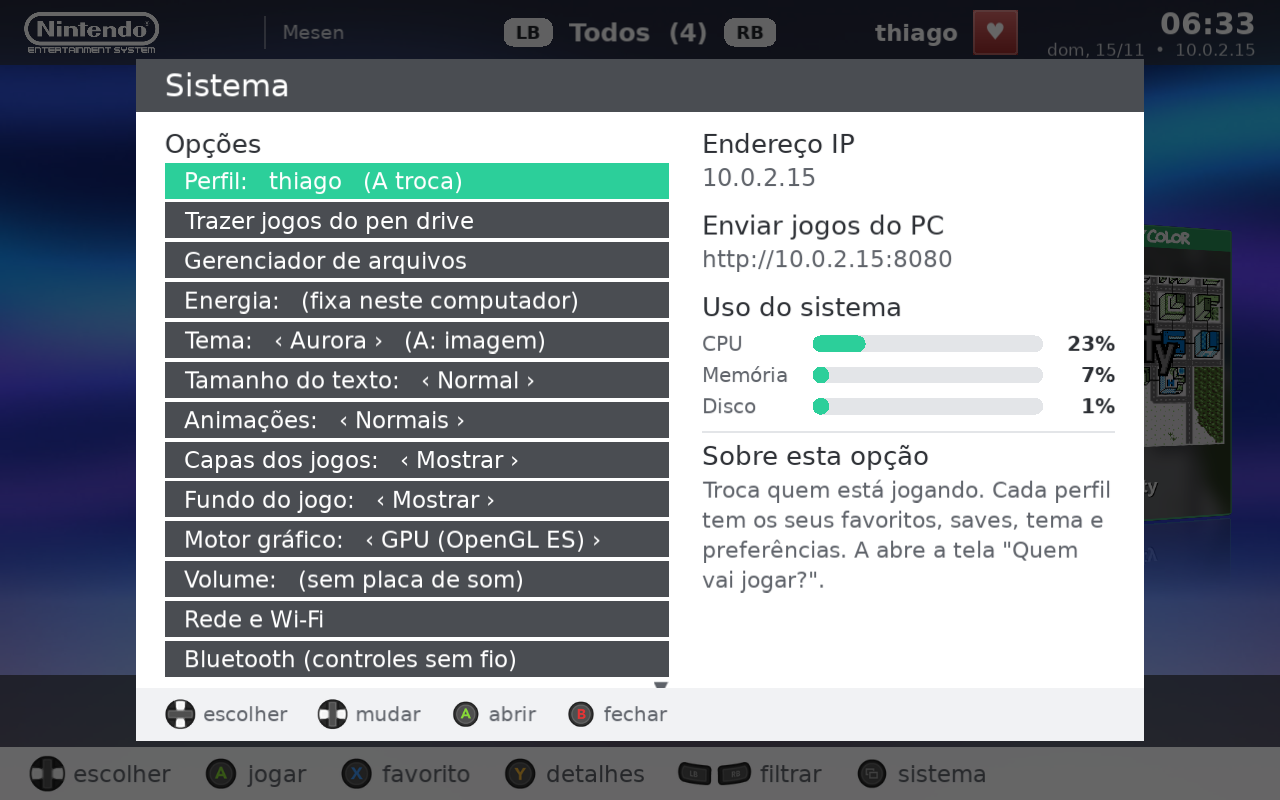
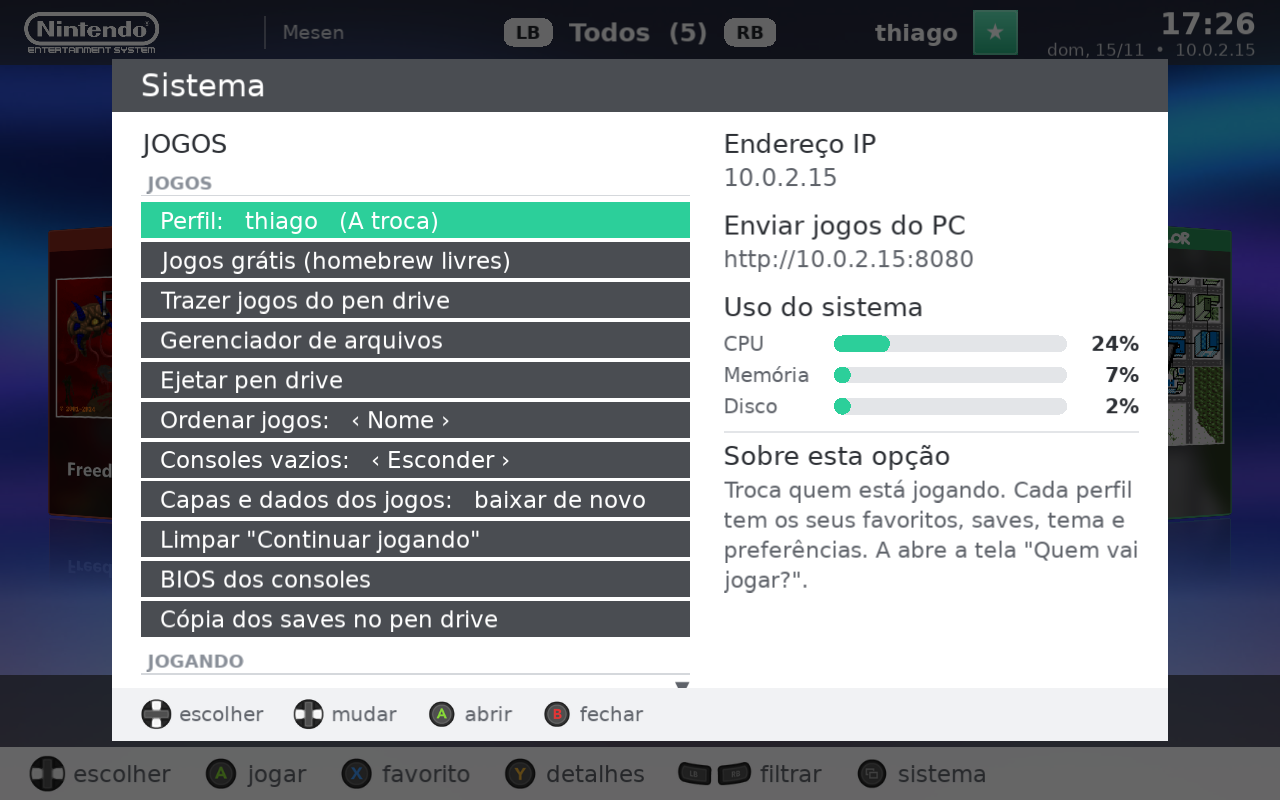
docs: README em 6 blocos (badges, capturas, hardware, pastas, compilar, licenca) e CHANGELOG
- versao v0.19.0-beta (SemVer), arquitetura, base e licenca em badges
- capturas novas: menu de boot, logo, carrossel com os jogos gratis, painel em secoes, gerenciador,
  Freedoom e protecao de tela
- matriz de hardware, drivers incluidos, estrutura de pastas, pacotes do host e comandos de compilacao
- CHANGELOG no padrao Keep a Changelog, com as versoes publicadas ate aqui

diff --git a/README.md b/README.md
@@ -2,93 +2,113 @@
 
 <p align="center"><img src="docs/logo.png" width="620" alt="ScrapCade OS"></p>
 
-<p align="center"><b>Jogos em qualquer computador.</b><br>
-Sistema próprio, baseado em Linux, para <b>emulação de jogos</b> e para dar uma <b>segunda vida a computadores que iriam para o lixo</b>.</p>
+<p align="center">
+  <img src="https://img.shields.io/badge/vers%C3%A3o-v0.19.0--beta-orange" alt="versão v0.19.0-beta">
+  <img src="https://img.shields.io/badge/arquitetura-x86__64%20%7C%20i686%20(em%20breve)-informational" alt="arquitetura x86_64, i686 em breve">
+  <img src="https://img.shields.io/badge/base-Linux%206.12%20%2B%20Buildroot%202026.02-lightgrey" alt="base Linux 6.12 e Buildroot 2026.02">
+  <img src="https://img.shields.io/badge/licen%C3%A7a-GPLv3-blue" alt="licença GPLv3">
+</p>
+
+**Sistema operacional para emulação de jogos que dá uma segunda vida a computadores que iriam para o lixo.** É um Linux próprio (kernel 6.12, montado com o Buildroot 2026.02) que liga direto num menu de jogos, o **ScrapCade**, feito em C++ e SDL2. Roda em PCs e notebooks de 64 bits, por BIOS antigo ou UEFI, a partir de um pen drive ou instalado no HD. Uma versão para PCs de 32 bits está a caminho.
 
 <p align="center"><a href="https://github.com/thiagotechmaker/scrapcade.os/releases/latest"><b>⬇ Baixar a versão mais nova (.iso, PC 64 bits)</b></a></p>
 
-## Baixar e instalar
+## Sobre e capturas
 
-1. **Baixe** o `scrapcade-os-<versão>-pc-64bits.iso` em [Releases](https://github.com/thiagotechmaker/scrapcade.os/releases/latest). É um arquivo só, que liga por BIOS antigo e por UEFI.
-2. **Grave** num pen drive de 4 GB ou mais com o [Rufus](https://rufus.ie) (modo ISO ou DD, tanto faz) ou o [balenaEtcher](https://etcher.balena.io).
-3. **Ligue o PC pelo pen drive** (tecla do menu de boot: F12, F9, F8 ou Esc). No primeiro boot o ScrapCade OS arruma o pen drive sozinho (sistema + partição SCRAP-DADOS para os jogos), pede a senha do administrador e abre a criação do seu perfil.
-4. **Coloque jogos** (veja [Colocar jogos](#colocar-jogos)).
-5. **Quer ligar sem o pen drive?** O ScrapCade OS pergunta uma vez se quer instalar no HD/SSD (também em *Sistema > Instalar no disco do computador*).
+**Instalar:**
 
-As versões novas chegam sozinhas: o ScrapCade OS avisa na tela e atualiza em *Sistema > Atualizar o ScrapCade OS*, sem mexer nos jogos e saves. Jogos, BIOS e ROMs não acompanham o sistema.
+1. Baixe o `.iso` em [Releases](https://github.com/thiagotechmaker/scrapcade.os/releases/latest). É um arquivo só, que liga por BIOS antigo e por UEFI.
+2. Grave num pen drive de 4 GB ou mais com o [Rufus](https://rufus.ie) (modo ISO ou DD) ou o [balenaEtcher](https://etcher.balena.io).
+3. Ligue o PC pelo pen drive (tecla do menu de boot: F12, F9, F8 ou Esc). No primeiro boot ele arruma o pen drive sozinho (sistema + partição SCRAP-DADOS para os jogos) e abre a criação do seu perfil.
+4. Coloque jogos pelo navegador do PC ou do celular (o endereço aparece na tela), pela pasta na rede do Windows ou por um pen drive. Cada jogo vai sozinho para o console certo, com capa e dados.
+5. Para ligar sem o pen drive: *Sistema > Instalar no disco do computador*.
 
-## Como é
+As versões novas chegam sozinhas pelo próprio sistema, sem mexer em jogos e saves. Jogos, BIOS e ROMs não acompanham o sistema.
 
-Liga direto no **modo jogo**, o menu **ScrapCade**: um carrossel de capas, com filtros por console, favoritos, "Continuar jogando" e os dados de cada jogo. Nas capturas aparecem jogos de fãs com licença livre ([µCity](https://github.com/AntonioND/ucity) de AntonioND, GPLv3; [Nova the Squirrel](https://github.com/NovaSquirrel/NovaTheSquirrel) de NovaSquirrel, GPLv3; [Libbet and the Magic Floor](https://github.com/pinobatch/libbet) de Pino, zlib), com capas feitas das telas dos próprios jogos.
+**Boot:** menu próprio (GRUB e syslinux), com modo de compatibilidade e teste de memória, e a logo do ScrapCade OS desenhada pelo initrd.
+
+<p align="center"><img src="docs/capturas/1_menu_de_boot.png" width="49%" alt="Menu de boot"> <img src="docs/capturas/2_boot.png" width="49%" alt="Logo no boot"></p>
+
+**Menu de jogos:** carrossel de capas com filtros por console (LB/RB), "Continuar jogando", favoritos e os dados de cada jogo. Nas capturas aparecem jogos de fãs com licença livre ([µCity](https://github.com/AntonioND/ucity), [Nova the Squirrel](https://github.com/NovaSquirrel/NovaTheSquirrel), [Libbet](https://github.com/pinobatch/libbet), [Freedoom](https://freedoom.github.io)), que o próprio sistema baixa em *Sistema > Jogos grátis*.
 
 ![Carrossel](docs/capturas/5_menu_carrossel.png)
 
-Cada pessoa tem o seu **perfil** (avatar, favoritos e saves próprios). Ao ligar, ele pergunta "Quem vai jogar?".
+**Painel Sistema** (botão Select ou tecla Tab), em seções como o menu de ajustes de um console: Jogos, Jogando, Aparência, Controle e som, Tela e energia, Rede e Sistema. Do lado direito ele explica cada opção.
 
-![Perfil](docs/capturas/10_perfil_avatar.png)
+<p align="center"><img src="docs/capturas/11_painel_sistema.png" width="49%" alt="Painel Sistema, seção Jogos"> <img src="docs/capturas/13_painel_jogando.png" width="49%" alt="Painel Sistema, seção Jogando"></p>
 
-No **painel Sistema** (botão Select ou tecla Tab) fica tudo, em seções como o menu de ajustes de um console:
+<p align="center"><img src="docs/capturas/10_perfil_avatar.png" width="49%" alt="Perfis com avatar"> <img src="docs/capturas/14_gerenciador.png" width="49%" alt="Gerenciador de arquivos"></p>
 
-- **Jogos:** perfil, jogos grátis, trazer do pen drive, gerenciador de arquivos, ejetar o pen drive, ordenar jogos, capas, BIOS, cópia dos saves.
-- **Jogando:** voltar de onde parou, filtro de imagem (liso ou TV de tubo), proporção, menos atraso nos controles, FPS na tela, emulador de cada console.
-- **Aparência:** 8 temas ou um seu, tamanho do texto, animações, proteção de tela.
-- **Controle e som, Tela e energia, Rede e Sistema:** controle, volume, Bluetooth, energia, desligar sozinho, relógio, Wi-Fi, pasta na rede do Windows, atualizar, instalar no HD, voltar ao padrão.
+<p align="center"><img src="docs/capturas/16_freedoom.png" width="49%" alt="Freedoom rodando"> <img src="docs/capturas/15_protecao_de_tela.png" width="49%" alt="Proteção de tela"></p>
 
-Do lado direito ele explica o que cada opção faz.
+<details><summary>Ver tudo o que o sistema faz</summary>
 
-![Painel Sistema](docs/capturas/11_painel_sistema.png)
+- **Perfis** com avatar ("Quem vai jogar?"), cada um com favoritos, saves e preferências.
+- **Consoles:** NES, Super Nintendo, Mega Drive, Master System, Game Gear, Game Boy, Game Boy Color, Game Boy Advance, PlayStation, Nintendo 64, PSP, Nintendo DS, Sega Saturn, Dreamcast, Fliperama e Neo Geo (FBNeo), pelo RetroArch. Também Doom e jogos `.wad` (PrBoom), **Half-Life** (Xash3D: copie a pasta `valve` da sua cópia da Steam para `roms/halflife`) e os ports do PortMaster.
+- **Jogando:** voltar de onde parou, filtro de imagem (liso ou TV de tubo), proporção, menos atraso nos controles (run-ahead), FPS na tela, emulador de cada console. Em todo jogo, Select + Start sai e Select + X abre o menu do emulador.
+- **Jogos:** jogos grátis de licença livre, trazer do pen drive, gerenciador de arquivos (copiar, mover, clonar, renomear, apagar para a Lixeira), ordenar, consoles vazios, BIOS dos consoles, cópia dos saves no pen drive. Se um jogo não abrir, o sistema avisa na tela.
+- **Aparência:** 8 temas ou uma imagem sua, tamanho do texto, animações, proteção de tela.
+- **Tela e energia:** perfis de energia, desligar sozinho, relógio 12/24 h.
+- **Rede:** Wi-Fi, Bluetooth (controles sem fio), pasta na rede do Windows (Samba), SSH, envio de jogos pelo navegador.
+- **Sistema:** atualização A/B pela internet (se a versão nova não ligar, volta sozinha para a anterior), instalar no HD, modo desktop (Fluxbox), voltar tudo ao padrão.
 
-**8 temas** prontos, ou um tema seu: escolha qualquer imagem em *Sistema > Tema* (botão A) e ela vira o fundo.
+</details>
 
-![Tema](docs/capturas/7_menu_tema.png)
+O mesmo menu roda num analisador de laboratório reaproveitado como fliperama: [ScrapCade no iChroma](https://github.com/thiagotechmaker/scrapcade-fliperama).
 
-**Jogos grátis:** em *Sistema > Jogos grátis* o ScrapCade baixa jogos de fãs com licença livre (µCity, Nova the Squirrel, Libbet e o Freedoom, um Doom completo e livre), direto do site do autor, confere o arquivo e já coloca no console certo, com capa. Os **ports** (jogos de PC adaptados) vêm pelo **PortMaster**, no console *Ports*.
+## Hardware suportado
 
-![Jogos grátis](docs/capturas/12_jogos_gratis.png)
+| Máquina | Boot | Vídeo | Som | Rede | Controles | Situação |
+|---|---|---|---|---|---|---|
+| QEMU x86_64 (UEFI/OVMF e BIOS) | ✅ | ✅ virtio/std | ✅ Intel HDA | ✅ e1000 | ✅ teclado e controle | testado a cada versão (bateria automática) |
+| Dell Inspiron N5010 (Core i3/i5 1ª geração, Intel HD, BIOS) | ⏳ | ⏳ | ⏳ | ⏳ Wi-Fi | ⏳ | aguardando teste no aparelho |
+| PCs de 32 bits (Pentium 4, Pentium M, Atom) | — | — | — | — | — | versão i686 em desenvolvimento |
 
-**Gerenciador de arquivos** (*Sistema > Gerenciador de arquivos*): abre direto nas pastas de jogos; Y mostra as ações (copiar, mover, clonar, renomear, apagar para a Lixeira) e X cola na pasta aberta.
+<details><summary>Ver os drivers incluídos</summary>
 
-Se um jogo não abrir (arquivo com defeito, versão errada, falta de BIOS), o ScrapCade avisa na tela em vez de só voltar ao menu.
+- **Vídeo:** Intel (i915, crocus, iris), AMD (amdgpu, radeon, radeonsi, r300, r600), NVIDIA (nouveau), Vulkan (Intel ANV e lavapipe), e desenho pela CPU (llvmpipe) quando a placa não ajuda.
+- **Som:** Intel HDA e placas USB, com PipeWire.
+- **Rede com cabo:** Intel e1000/e1000e/igb, Realtek r8169, Atheros atl1/atl1c/atl1e/alx.
+- **Wi-Fi:** Intel (iwlwifi, 3945 e 4965), Atheros (ath9k, ath10k, carl9170), Ralink/MediaTek (rt2800, rt73), Realtek (rtl8xxxu e as linhas 81xx/87xx/88xx), com os firmwares redistribuíveis.
+- **Controles:** Xbox (xpad), PlayStation 3/4/5, Nintendo (Switch), Steam e genéricos pelo banco de controles do SDL2; Bluetooth; assistente para ensinar os botões de um controle desconhecido.
 
-## Colocar jogos
+</details>
 
-- **Pelo navegador** do PC ou do celular, na mesma rede: abra o endereço que aparece na tela e arraste os jogos.
-- **Pela rede do Windows:** a pasta dos jogos aparece no Explorador de Arquivos.
-- **Por um pen drive:** *Sistema > Trazer jogos do pen drive*.
+**Limitações conhecidas:** PS2, GameCube, Wii, 3DS e PC (DOS) aparecem no menu mas ainda não têm emulador; os ports do PortMaster são feitos para portáteis ARM, então poucos rodam em PC; sem Secure Boot.
 
-Os jogos vão sozinhos para o console certo, com capa e dados. Jogos, BIOS e ROMs não acompanham o sistema.
+## Estrutura de pastas
 
-## Consoles
+```
+.
+├── build-x86_64.sh            compila a imagem de 64 bits (output/x86_64)
+├── build-i686.sh              compila a imagem de 32 bits (output/i686)
+├── external/                  árvore externa do Buildroot (BR2_EXTERNAL)
+│   ├── configs/               tos_x86_64_defconfig, tos_i686_defconfig
+│   ├── board/x86_64/          boot (GRUB, syslinux, initramfs), kernel (linux.config e fragmentos), scripts de imagem e .iso
+│   ├── board/common/          rootfs-overlay: comandos tos-* (instalar, atualizar, jogar, rede), configuração do RetroArch
+│   └── package/               scrapcade (o menu, em C++/SDL2), retroarch, núcleos libretro, xash3d-fwgs, hlsdk-portable
+├── tests/                     bateria automática no QEMU (testar.sh) e telas de referência
+├── scripts/                   publicar-versao.ps1 (sobe a versão aprovada nas Releases)
+└── docs/                      detalhes técnicos, composição, roteiro e capturas
+```
 
-NES, Super Nintendo, Mega Drive, Master System, Game Gear, Game Boy, Game Boy Color, Game Boy Advance, PlayStation, Nintendo 64, PSP, Nintendo DS, Sega Saturn, Dreamcast, Fliperama (FBNeo) e Neo Geo, pelo RetroArch. Também Doom e jogos `.wad` (PrBoom), **Half-Life** (Xash3D: copie a pasta `valve` da sua cópia da Steam para `roms/halflife`) e os ports do PortMaster.
+O Buildroot fica em `buildroot/` e as compilações em `output/`, os dois fora do Git (`.gitignore`). As imagens prontas (`.iso`) vão só nas [Releases](https://github.com/thiagotechmaker/scrapcade.os/releases).
 
-**Atalhos em todo jogo:** Select + Start sai, Select + X abre o menu do emulador. No teclado: Esc sai.
+## Como compilar
 
-## As duas versões do ScrapCade
-
-| | **ScrapCade OS** (este repositório) | **Fliperama iChroma** |
-|---|---|---|
-| Máquina | PCs e notebooks de 64 bits (32 bits em breve) | Placa ARM de 1 núcleo a 1 GHz (iChroma II, Android 2.3), tirada do lixo eletrônico |
-| Sistema | Linux próprio, montado com o Buildroot | Android de fábrica, com kernel e boot próprios |
-| Menu | ScrapCade em C++ e SDL2 | ScrapCade em Java (o original) |
-| Emuladores | Todos os que o PC aguentar | Só os leves (até PlayStation 1 e Nintendo 64, com limites) |
-
-Os dois menus são o mesmo por desenho: carrossel de capas, painel Sistema, gerenciador de arquivos, jogos pelo navegador e pelo pen drive. O que nasce num é levado para o outro, dentro do que cada máquina aguenta. O fliperama do iChroma é um projeto pessoal, sem repositório público.
-
-## Mais informações
-
-- [Detalhes técnicos](docs/DETALHES.md): emuladores, partições, gravação, versões, modo desktop.
-- [Do que o ScrapCade OS é feito](docs/COMPOSICAO.md): cada programa, com versões.
-- [Roteiro](docs/ROTEIRO.md): o que vem por aí.
-
-**Compilar** (Ubuntu ou WSL2; o ScrapCade OS é montado com o [Buildroot](https://buildroot.org), como o Batocera):
+Num Ubuntu 24.04 (ou WSL2), com uns 40 GB livres:
 
 ```bash
+sudo apt install build-essential gcc-multilib git wget unzip rsync bc cpio file libncurses-dev python3 \
+                 qemu-system-x86 ovmf mtools dosfstools python3-pil
 git clone https://github.com/thiagotechmaker/scrapcade.os.git ~/t-os
 git clone --depth 1 --branch 2026.02.3 https://gitlab.com/buildroot.org/buildroot.git ~/t-os/buildroot
-bash ~/t-os/build-x86_64.sh
+bash ~/t-os/build-x86_64.sh          # make tos_x86_64_defconfig + make; resultado em output/x86_64/images
+bash ~/t-os/tests/testar.sh          # opcional: bateria automática no QEMU (precisa do qemu, ovmf, mtools e python3-pil)
 ```
+
+A primeira compilação baixa e compila tudo (algumas horas); as seguintes só o que mudou. Para 32 bits: `bash ~/t-os/build-i686.sh`. Detalhes em [docs/DETALHES.md](docs/DETALHES.md), [docs/COMPOSICAO.md](docs/COMPOSICAO.md) e [docs/ROTEIRO.md](docs/ROTEIRO.md); o histórico de versões está no [CHANGELOG.md](CHANGELOG.md).
 
 ## Licença
 
-Código do ScrapCade OS: **GPLv3** (ver [LICENSE](LICENSE)). Os arquivos em `external/board/x86_64/` vêm da configuração de PC do Buildroot (GPL-2.0 ou posterior). Os programas incluídos na imagem mantêm as licenças dos seus autores.
+Código do ScrapCade OS e do menu ScrapCade: **GPLv3** (ver [LICENSE](LICENSE)). Os arquivos em `external/board/x86_64/` vêm da configuração de PC do Buildroot (GPL-2.0 ou posterior). O kernel Linux é GPL-2.0, e cada programa incluído na imagem mantém a licença dos seus autores (lista em [docs/COMPOSICAO.md](docs/COMPOSICAO.md)). O Half-Life usa o hlsdk-portable, sob a licença do Half-Life 1 SDK (distribuição só gratuita); os dados do jogo não acompanham o sistema. Logotipos de consoles e marcas são dos seus titulares e aparecem só para identificação.

diff --git a/CHANGELOG.md b/CHANGELOG.md
@@ -1,0 +1,62 @@
+# Changelog
+
+Todas as mudanças importantes do ScrapCade OS ficam aqui. O formato segue o [Keep a Changelog](https://keepachangelog.com/pt-BR/1.1.0/) e as versões seguem o [Versionamento Semântico](https://semver.org/lang/pt-BR/) (fase beta enquanto for `0.x`).
+
+Até a v0.19.0-beta as versões eram publicadas com a data e a hora da compilação como tag (por exemplo `v202611151519`); a partir da v0.20.0-beta a tag é o número SemVer. Quem estiver na v0.19.0-beta ou antes precisa gravar o `.iso` novo uma vez, porque o atualizador antigo só reconhece tags de data.
+
+## [Unreleased]
+
+### Adicionado
+- Versão para PCs de 32 bits (i686): Pentium 4, Pentium M e Atom, com os emuladores leves (FCEUmm, Snes9x 2010, PicoDrive, gpSP).
+- Troca rápida de jogo: o botão Start no carrossel abre "Continuar jogando", com a foto de onde você parou em cada jogo.
+- Menu do botão de energia (Suspender, Reiniciar, Desligar). Jogando, o botão suspende; fechar a tampa do notebook também.
+- Suspender no painel Sistema, voltando exatamente onde estava.
+- Modo atração: a proteção de tela mostra as cenas dos jogos, com nome e console.
+- Música (da pasta `music`) e sons no menu, desligados por padrão.
+
+### Alterado
+- Menu do RetroArch com as cores do ScrapCade.
+- Imagem, `.iso` e atualização sabem a arquitetura: um PC de 32 bits só baixa os arquivos de 32 bits.
+- Tags das versões em SemVer.
+
+## [0.19.0-beta] - 2026-11-15
+
+Publicada com a tag `v202611151519`.
+
+### Adicionado
+- Half-Life pelo Xash3D FWGS, com as bibliotecas do hlsdk-portable; os dados vêm da cópia da Steam do usuário (`roms/halflife/valve`).
+- Painel Sistema em seções: Jogos, Jogando, Aparência, Controle e som, Tela e energia, Rede e Sistema.
+- Ordenar jogos, consoles vazios, capas de novo, limpar "Continuar jogando", voltar de onde parou, filtro de imagem (nenhum, liso, TV de tubo), proporção, run-ahead, FPS na tela, emulador de cada console, relógio 12/24 h, voltar tudo ao padrão.
+- Proteção de tela e desligar sozinho.
+
+### Alterado
+- Bateria de testes com segunda tentativa em todos os trechos do QEMU.
+
+## [0.17.0-beta] - 2026-11-15
+
+Publicada com a tag `v202611150727`.
+
+### Adicionado
+- Console Doom (PrBoom) e o Freedoom nos Jogos grátis, com capas feitas das telas dos próprios jogos.
+- Aviso na tela quando um jogo não abre.
+- Ejetar pen drive.
+
+### Alterado
+- Gerenciador de arquivos com o visual do fliperama do iChroma: abre nas pastas de jogos, Y mostra as ações (com Clonar) e X cola.
+
+## [0.16.0-beta] - 2026-11-15
+
+Publicada com a tag `v202611150307`.
+
+### Adicionado
+- PortMaster no console Ports.
+- Gerenciador de arquivos, jogos grátis de licença livre, cópia dos saves no pen drive, "Continuar jogando".
+- Atualização em segundo plano, que só avisa para reiniciar.
+- Logo do ScrapCade OS no boot (BIOS e UEFI) e letras de pixel no tema 8 bits.
+
+### Corrigido
+- Duas atualizações ao mesmo tempo, confirmação da versão nova antes de ligar e download repetido.
+
+## [0.15.0-beta] e anteriores - 2026-11-11 a 2026-11-14
+
+Primeiras versões: sistema em Buildroot que liga por BIOS e UEFI, menu ScrapCade em C++/SDL2, perfis com avatar, temas, Wi-Fi, Bluetooth, Samba, SSH, BIOS dos consoles, instalador para o HD, .iso único, atualização A/B e bateria de testes automática.
